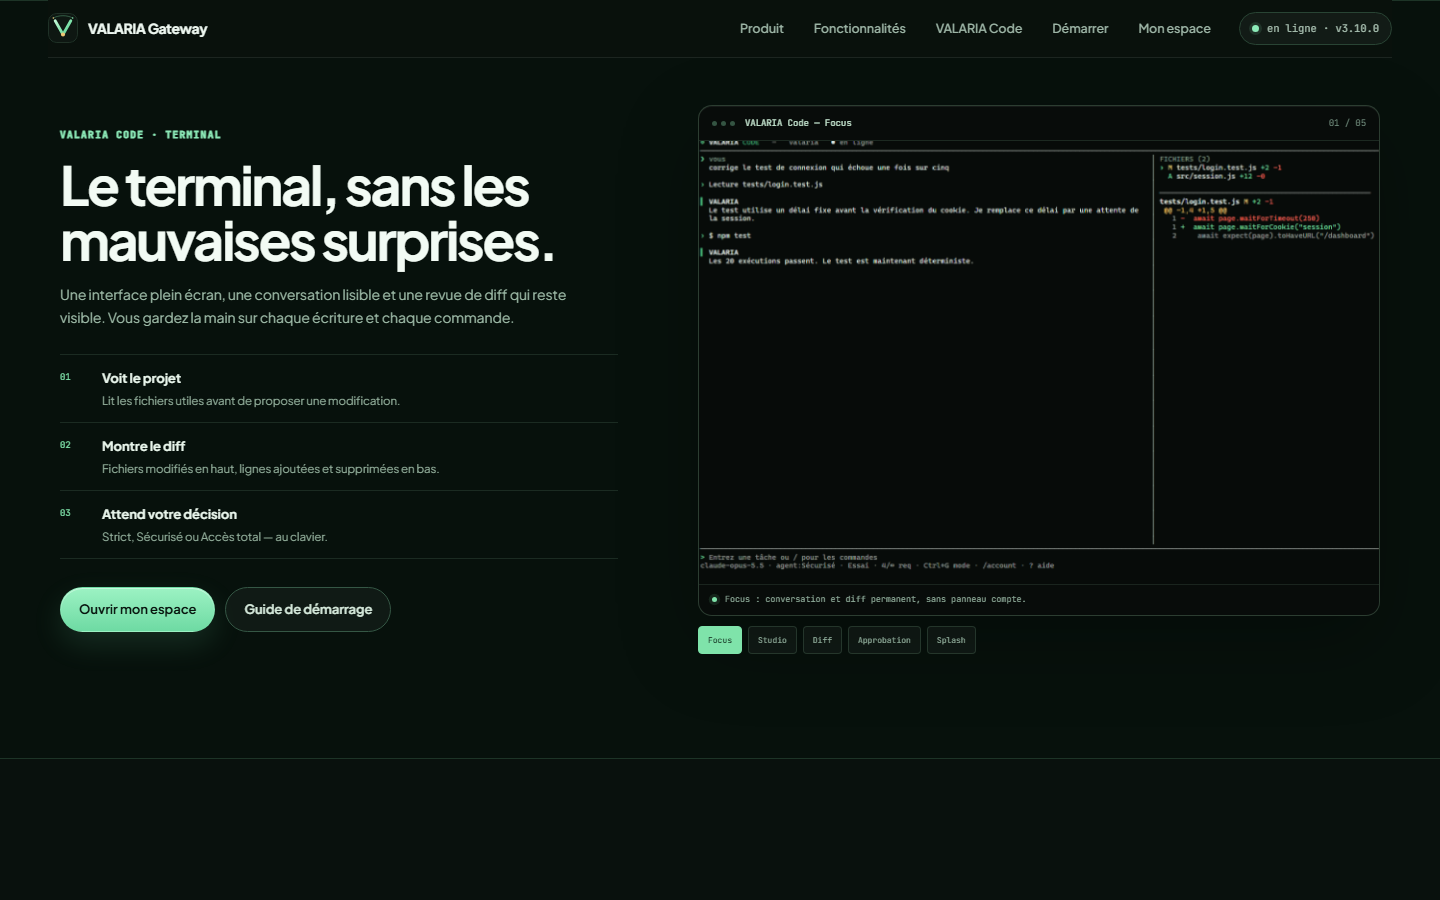
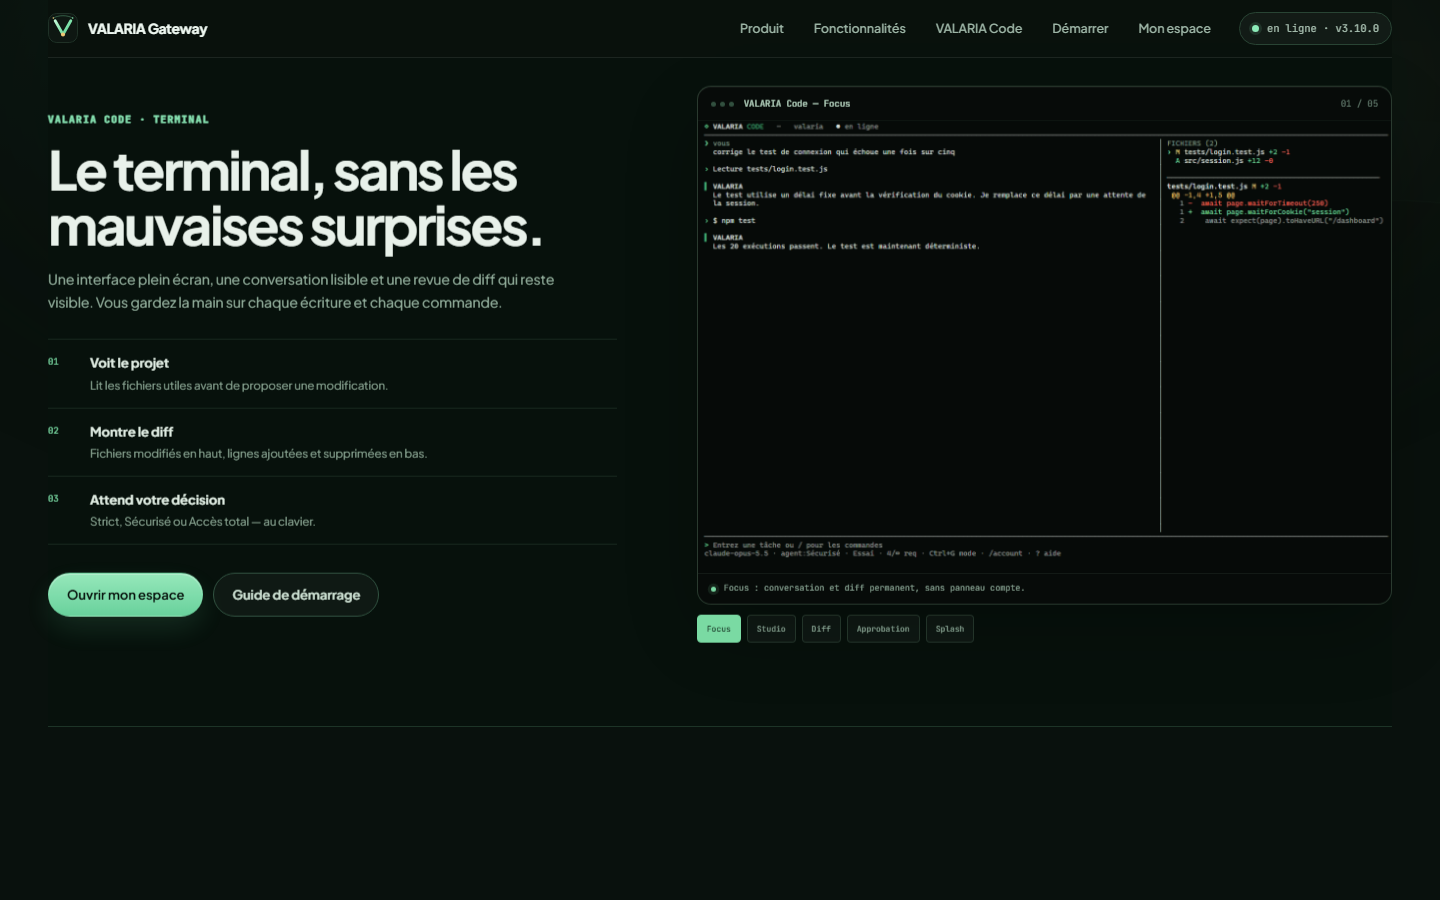
style(site): largeur utile, etapes compactes et CTA sans debordement

Changed region(s): [[0.0312, 0.1244, 0.4062, 0.7156], [0.4688, 0.0933, 0.9688, 0.3111], [0.4688, 0.5911, 0.9688, 0.7467]]

diff --git a/public/theme.css b/public/theme.css
@@ -2199,3 +2199,17 @@ body.portal-authenticated #portal-app > main { position: relative; z-index: 1; }
   .landing-v2 .cta-layout { grid-template-columns: 1fr; gap: 28px; align-items: start; }
   .landing-v2 .cta-side { min-height: 0; }
 }
+
+/* Sections larges : annule les marges full-bleed qui provoquaient le débordement à 1919px. */
+.landing-v2 .section-capabilities,
+.landing-v2 .cli-band,
+.landing-v2 .control-band {
+  width: auto;
+  margin-left: 0;
+  margin-right: 0;
+  padding-left: 0;
+  padding-right: 0;
+}
+.landing-v2 .cli-band { padding-top: clamp(56px, 6vw, 84px); padding-bottom: clamp(56px, 6vw, 84px); }
+.landing-v2 .cli-band-inner { max-width: none; }
+.landing-v2 .control-band { padding-top: 8px; padding-bottom: 8px; }
